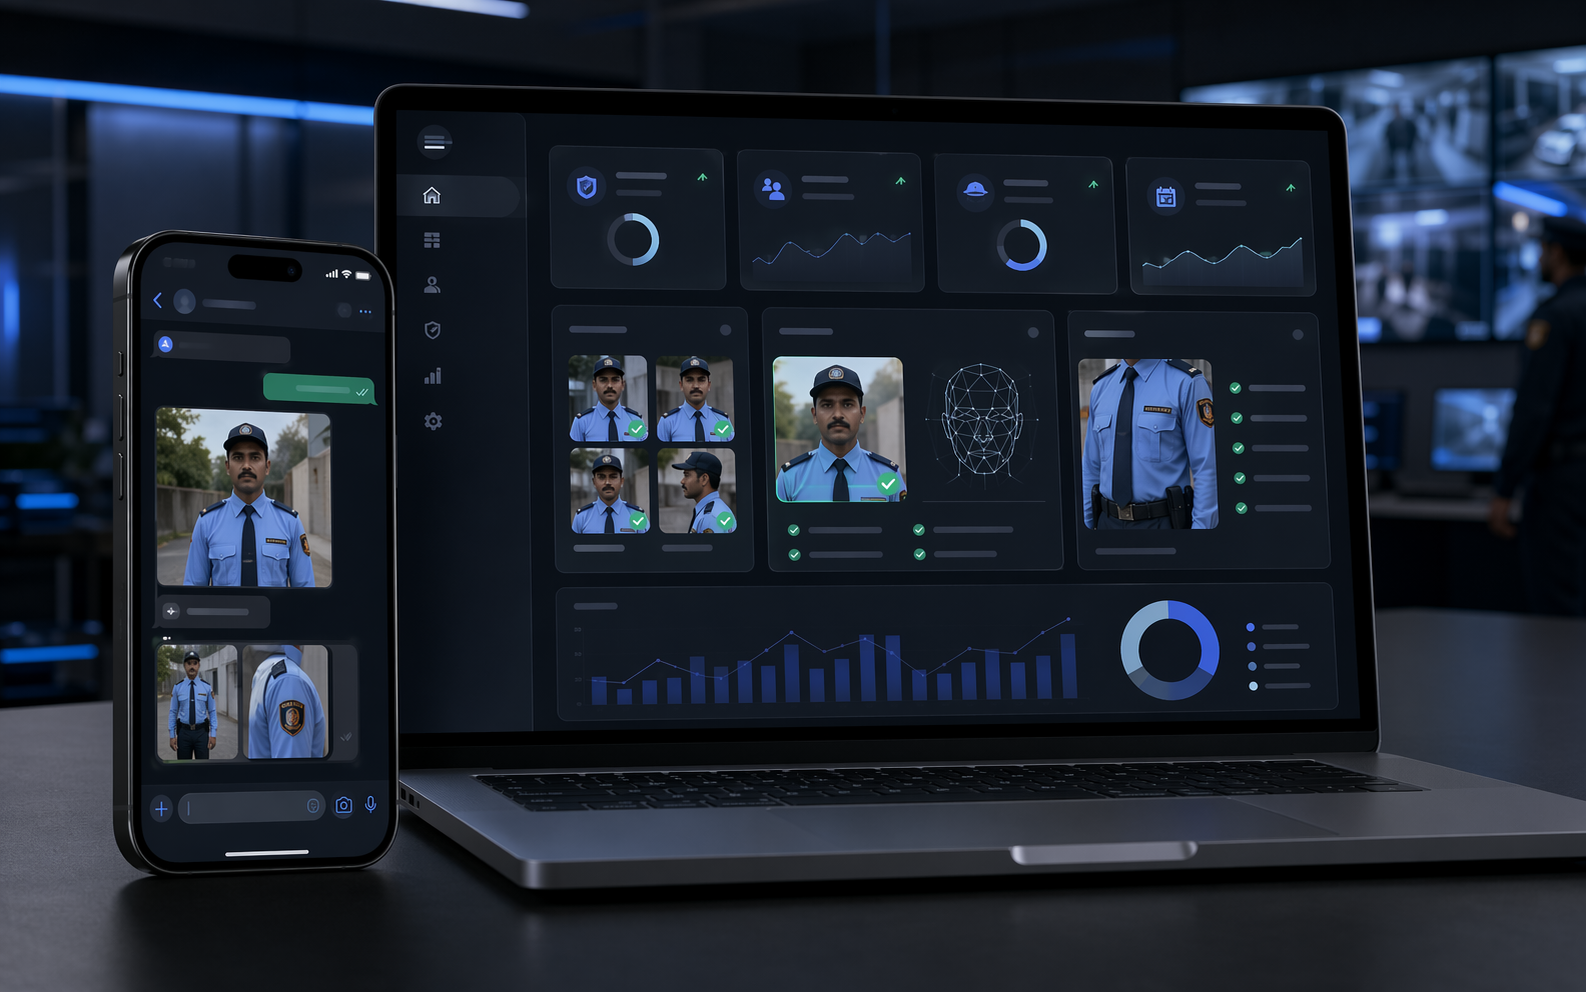
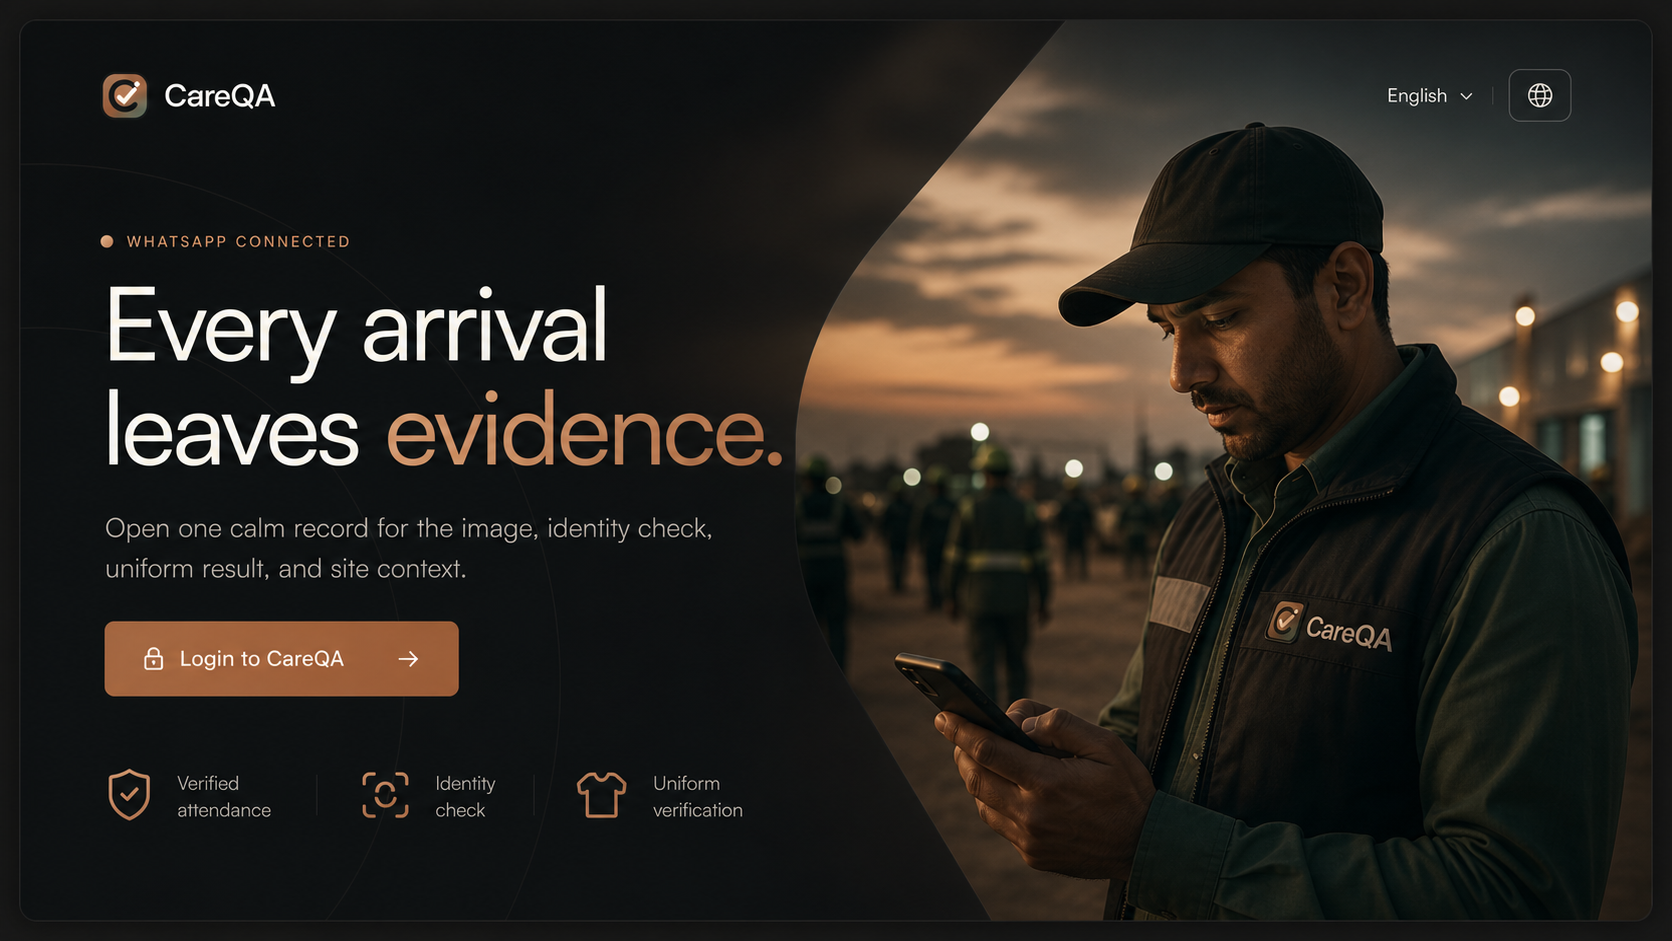
Update CareQA portfolio entry

diff --git a/src/components/projects/FeaturedProject.tsx b/src/components/projects/FeaturedProject.tsx
@@ -9,10 +9,12 @@ interface FeaturedProjectProps {
 
 export function FeaturedProject({ project, index }: FeaturedProjectProps) {
   const isNimbus = project.id === "nimbus";
-  const nimbusUrl = isNimbus ? project.links.demo : undefined;
+  const hasWarmShell = isNimbus || project.id === "caresecurity-qa-agent";
+  const demoUrl = project.links.demo;
+  const hasDemoUrl = Boolean(demoUrl);
   const isContainedImage = project.imageFit === "contain";
   const sectionLabel = isNimbus ? "Featured project" : "Selected project";
-  const previewLabel = isNimbus ? "Live website" : "Project preview";
+  const previewLabel = hasDemoUrl ? "Live website" : "Project preview";
   const preview = (
     <div
       className={cn(
@@ -36,7 +38,7 @@ export function FeaturedProject({ project, index }: FeaturedProjectProps) {
           )}
         >
           {previewLabel}
-          {isNimbus && (
+          {hasDemoUrl && (
             <ArrowUpRight className="h-3.5 w-3.5 transition-transform duration-300 group-hover:translate-x-0.5 group-hover:-translate-y-0.5" />
           )}
         </span>
@@ -72,7 +74,7 @@ export function FeaturedProject({ project, index }: FeaturedProjectProps) {
     <article
       className={cn(
         "relative grid gap-10 py-16 md:py-20 lg:grid-cols-[0.48fr_0.22fr_0.9fr] lg:items-center",
-        isNimbus && "nimbus-feature-shell isolate my-8 px-5 py-10 md:px-6 lg:px-8"
+        hasWarmShell && "warm-feature-shell isolate my-8 px-5 py-10 md:px-6 lg:px-8"
       )}
     >
       <div className="relative z-10 grid gap-8 md:grid-cols-[4rem_1fr] lg:grid-cols-[4rem_1fr]">
@@ -123,9 +125,9 @@ export function FeaturedProject({ project, index }: FeaturedProjectProps) {
           )}
 
           <div className="mt-8 flex flex-wrap gap-3">
-            {nimbusUrl && (
+            {demoUrl && (
               <a
-                href={nimbusUrl}
+                href={demoUrl}
                 target="_blank"
                 rel="noopener noreferrer"
                 className={cn(
@@ -168,13 +170,13 @@ export function FeaturedProject({ project, index }: FeaturedProjectProps) {
         ))}
       </div>
 
-      {nimbusUrl ? (
+      {demoUrl ? (
         <a
-          href={nimbusUrl}
+          href={demoUrl}
           target="_blank"
           rel="noopener noreferrer"
           className="focus-ring group relative z-10 block"
-          aria-label="Open Nimbus website"
+          aria-label={`Open ${project.title} website`}
         >
           {preview}
         </a>

diff --git a/src/data/projects.ts b/src/data/projects.ts
@@ -64,15 +64,16 @@ export const projects: Project[] = [
   },
   {
     id: "caresecurity-qa-agent",
-    title: "Security QA Agent",
-    description: "WhatsApp QA tool for attendance and uniform checks from field photos",
-    longDescription: "A production WhatsApp AI agent that transforms field photos into structured QA scores and dashboards. Security guards or supervisors send photos via WhatsApp, and the system uses a dual-AI pipeline (AWS Rekognition for face identification + Google Gemini for uniform analysis) to produce auditable attendance and compliance logs. Currently live in 2 pilot sites with planned rollout to 20+ sites.",
+    title: "CareQA",
+    description: "WhatsApp-connected QA workspace for attendance, identity, and uniform verification",
+    longDescription: "CareQA turns field photos into one auditable operations record with image context, identity matching, and uniform verification in the same flow. Security guards and supervisors submit evidence through WhatsApp, and the system uses a dual-AI pipeline (AWS Rekognition for face identification plus Google Gemini for uniform analysis) to produce structured attendance and compliance logs with clear site context.",
     thumbnail: securityQaAgentImage,
     images: [
       securityQaAgentImage
     ],
     tags: ["Node.js", "Express", "React", "Supabase", "PostgreSQL", "AWS Rekognition", "Google Gemini", "WhatsApp API", "TypeScript"],
     links: {
+      demo: "https://moshref.pro",
       caseStudy: "#case-study-security-qa"
     },
     stats: [

diff --git a/src/index.css b/src/index.css
@@ -250,7 +250,7 @@
     background: rgba(73, 184, 170, 0.5);
   }
 
-  .nimbus-feature-shell {
+  .warm-feature-shell {
     overflow: hidden;
     border: 1px solid rgba(249, 115, 22, 0.22);
     background:
@@ -262,7 +262,7 @@
       0 30px 100px rgba(0, 0, 0, 0.28);
   }
 
-  .nimbus-feature-shell::after {
+  .warm-feature-shell::after {
     content: "";
     position: absolute;
     inset: 0;